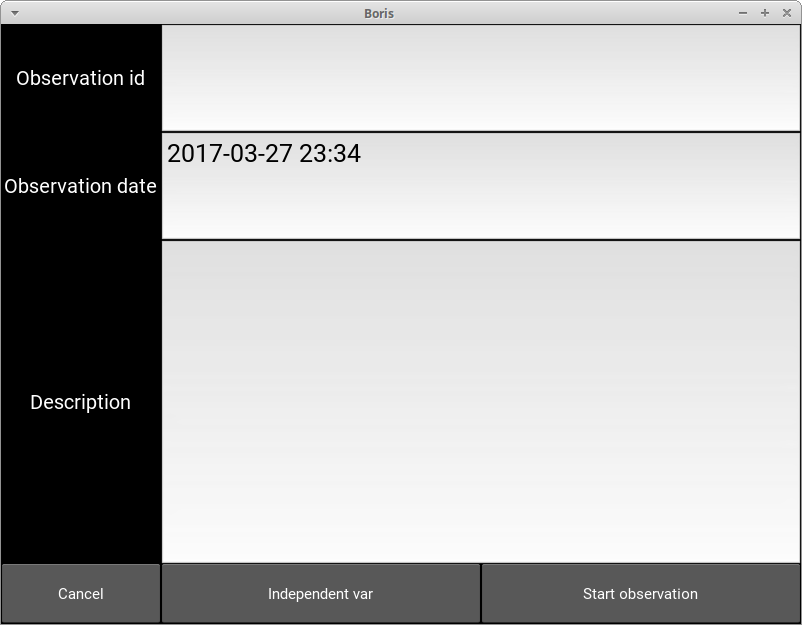
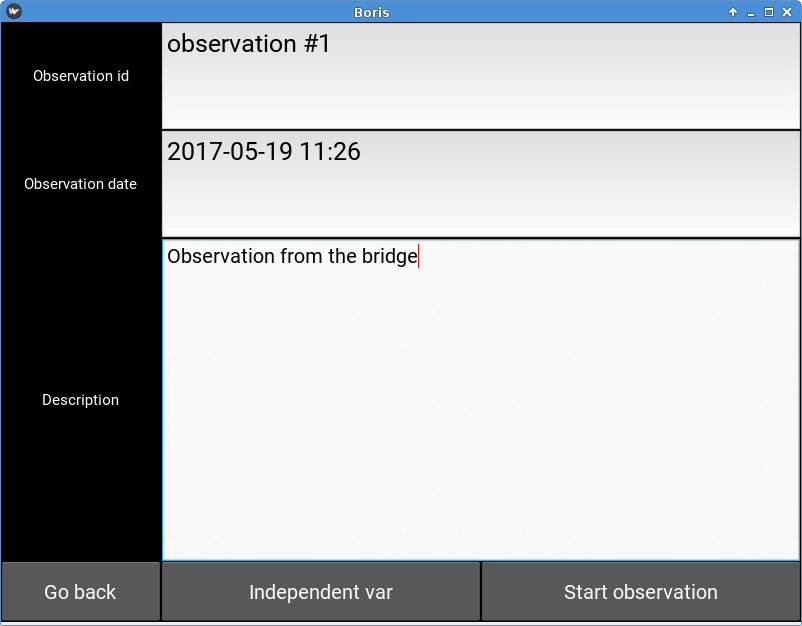
update

diff --git a/index.rst b/index.rst
@@ -149,7 +149,8 @@ Open the project
 
 
 
-4) Start a new observation
+Start a new observation
+-----------------------
 
 * Press the **New observation** button
 
@@ -157,7 +158,8 @@ Open the project
 .. image:: new_observation.png
    :scale: 50%
 
-* Input an **Observation Id** (mandatory, this id must be unique in your project)
+
+* Input an **Observation id** (mandatory, this id must be unique in your project)
 
 * Change the date (optional, default: current date time)
 
@@ -173,6 +175,13 @@ and fill the value for each variable.
 
 You will obtain a screen with buttons corresponding to behaviors defined in your project.
 You can press it to code behaviors. The event time will be recorded in your observation.
+
+
+
+.. image:: running_observation_without_categories.png
+   :scale: 50%
+
+
 
 If behavioral categories are defined in your project, the behaviors will be grouped by category and
 buttons will be colored.
@@ -215,7 +224,7 @@ Modifiers
 
 If modifiers are defined for the triggered behavior, BORIS App will show the modifiers page.
 
-They are 3 type of modifiers:
+They are 3 types of modifiers:
 
 * Single item selection from a list
 
@@ -223,9 +232,14 @@ They are 3 type of modifiers:
 
 * Numerical
 
-BORIS App will show you the various
+Various sets of modifiers can be defined for a behavior.
 
+BORIS App will show a page with all sets of modifiers defined for the current behavior.
 
+Example for one set of modifier (single item).
+
+.. image:: modifiers_single_item.png
+   :scale: 50%
 
 
 
